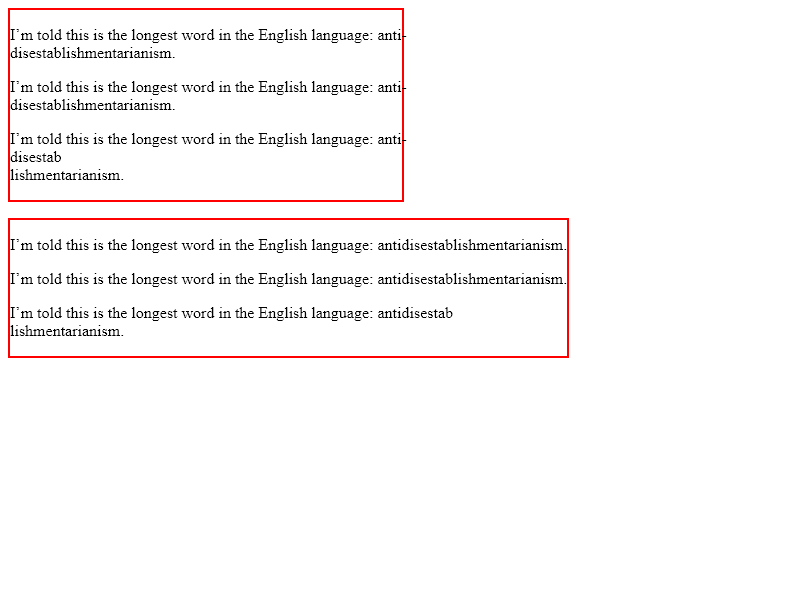
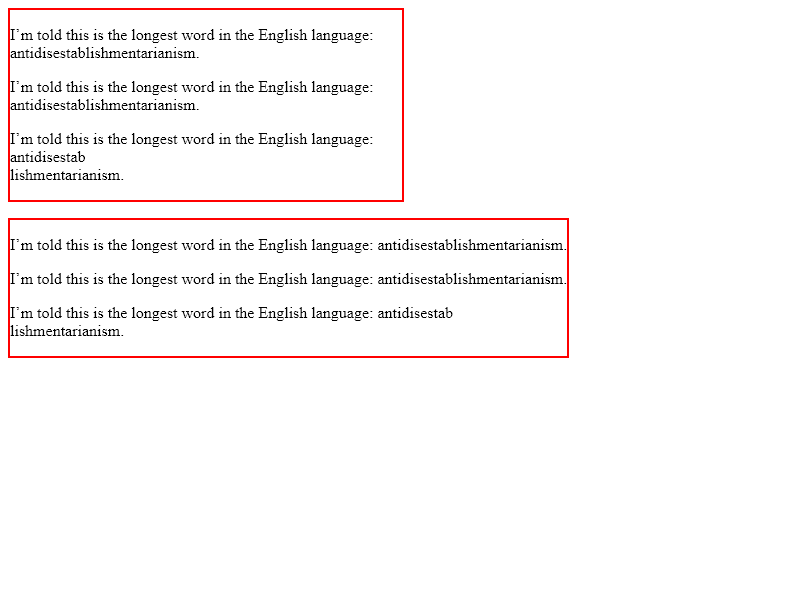
[LayoutNG] Fix when adding a hyphen causes the line to overflow
When adding a hyphen causes the line to overflow, this patch
retries another break opportunity with the reeuced available
width instead of the line to overflow.

Bug: 982729
Commit-Queue: Koji Ishii <kojii@chromium.org>
Cr-Original-Commit-Position: refs/heads/master@{#677216}
Cr-Mirrored-From: https://chromium.googlesource.com/chromium/src
Cr-Mirrored-Commit: 626dd8ba2ba9d5d8e179b61d05a9d99e462a31ef

diff --git a/blink/web_tests/external/wpt/css/css-text/hyphens/hyphens-overflow-001.html b/blink/web_tests/external/wpt/css/css-text/hyphens/hyphens-overflow-001.html
@@ -1,0 +1,20 @@
+<!DOCTYPE html>
+<title>CSS Text Test: Test when soft-hyphen overflows</title>
+<link rel="match" href="reference/hyphens-overflow-001-ref.html">
+<link rel="help" href="https://drafts.csswg.org/css-text-3/#hyphens-property">
+<link rel="author" href="mailto:kojii@chromium.org">
+<style>
+div {
+  font-size: 10px;
+  font-family: Ahem;
+  width: 5.1ch;
+}
+</style>
+<body>
+  <div>12 4&shy;xx</div>
+  <div>12 45&shy;xx</div>
+  <div>12 456&shy;xx</div>
+  <div>1234&shy;xx</div>
+  <div>12345&shy;xx</div>
+  <div>123456&shy;xx</div>
+</body>

diff --git a/blink/web_tests/external/wpt/css/css-text/hyphens/reference/hyphens-overflow-001-ref.html b/blink/web_tests/external/wpt/css/css-text/hyphens/reference/hyphens-overflow-001-ref.html
@@ -1,0 +1,15 @@
+<!DOCTYPE html>
+<style>
+div {
+  font-size: 10px;
+  font-family: Ahem;
+}
+</style>
+<body>
+  <div>12 4-<br>xx</div>
+  <div>12<br>45xx</div>
+  <div>12<br>456xx</div>
+  <div>1234-<br>xx</div>
+  <div>12345-<br>xx</div>
+  <div>123456-<br>xx</div>
+</body>

diff --git a/blink/renderer/core/layout/ng/inline/ng_line_breaker.cc b/blink/renderer/core/layout/ng/inline/ng_line_breaker.cc
@@ -636,39 +636,58 @@ NGLineBreaker::BreakResult NGLineBreaker::BreakText(
   if (break_anywhere_if_overflow_ && !override_break_anywhere_)
     options |= ShapingLineBreaker::kNoResultIfOverflow;
 
-  ShapingLineBreaker::Result result;
-  scoped_refptr<const ShapeResultView> shape_result = breaker.ShapeLine(
-      item_result->start_offset, available_width.ClampNegativeToZero(), options,
-      &result);
+#if DCHECK_IS_ON()
+  unsigned try_count = 0;
+#endif
+  LayoutUnit inline_size;
+  while (true) {
+#if DCHECK_IS_ON()
+    ++try_count;
+    DCHECK_LE(try_count, 2u);
+#endif
+    ShapingLineBreaker::Result result;
+    scoped_refptr<const ShapeResultView> shape_result = breaker.ShapeLine(
+        item_result->start_offset, available_width.ClampNegativeToZero(),
+        options, &result);
 
-  // If this item overflows and 'break-word' is set, this line will be
-  // rewinded. Making this item long enough to overflow is enough.
-  if (!shape_result) {
-    DCHECK(options & ShapingLineBreaker::kNoResultIfOverflow);
-    item_result->inline_size = available_width + 1;
-    item_result->end_offset = item.EndOffset();
-    return kOverflow;
+    // If this item overflows and 'break-word' is set, this line will be
+    // rewinded. Making this item long enough to overflow is enough.
+    if (!shape_result) {
+      DCHECK(options & ShapingLineBreaker::kNoResultIfOverflow);
+      item_result->inline_size = available_width + 1;
+      item_result->end_offset = item.EndOffset();
+      return kOverflow;
+    }
+    DCHECK_EQ(shape_result->NumCharacters(),
+              result.break_offset - item_result->start_offset);
+    // It is critical to move the offset forward, or NGLineBreaker may keep
+    // adding NGInlineItemResult until all the memory is consumed.
+    CHECK_GT(result.break_offset, item_result->start_offset);
+
+    inline_size = shape_result->SnappedWidth().ClampNegativeToZero();
+    item_result->inline_size = inline_size;
+    if (UNLIKELY(result.is_hyphenated)) {
+      const WritingMode writing_mode = constraint_space_.GetWritingMode();
+      scoped_refptr<const NGPhysicalTextFragment> hyphen_fragment =
+          CreateHyphenFragment(node_, writing_mode, item);
+      LayoutUnit space_for_hyphen = available_width - inline_size;
+      LayoutUnit hyphen_inline_size = IsHorizontalWritingMode(writing_mode)
+                                          ? hyphen_fragment->Size().width
+                                          : hyphen_fragment->Size().height;
+      // If the hyphen overflows, retry with the reduced available width.
+      if (space_for_hyphen >= 0 && hyphen_inline_size > space_for_hyphen) {
+        available_width -= hyphen_inline_size;
+        continue;
+      }
+      inline_size += SetLineEndFragment(std::move(hyphen_fragment), line_info);
+      item_result->text_end_effect = NGTextEndEffect::kHyphen;
+    }
+    item_result->inline_size =
+        shape_result->SnappedWidth().ClampNegativeToZero();
+    item_result->end_offset = result.break_offset;
+    item_result->shape_result = std::move(shape_result);
+    break;
   }
-  DCHECK_EQ(shape_result->NumCharacters(),
-            result.break_offset - item_result->start_offset);
-  // It is critical to move the offset forward, or NGLineBreaker may keep adding
-  // NGInlineItemResult until all the memory is consumed.
-  CHECK_GT(result.break_offset, item_result->start_offset);
-
-  LayoutUnit inline_size = shape_result->SnappedWidth().ClampNegativeToZero();
-  item_result->inline_size = inline_size;
-  if (result.is_hyphenated) {
-    inline_size += SetLineEndFragment(
-        CreateHyphenFragment(node_, constraint_space_.GetWritingMode(), item),
-        line_info);
-
-    // TODO(kojii): Implement when adding a hyphen caused overflow.
-    // crbug.com/714962: Should be removed when switched to NGPaint.
-    item_result->text_end_effect = NGTextEndEffect::kHyphen;
-  }
-  item_result->inline_size = shape_result->SnappedWidth().ClampNegativeToZero();
-  item_result->end_offset = result.break_offset;
-  item_result->shape_result = std::move(shape_result);
 
   // * If width <= available_width:
   //   * If offset < item.EndOffset(): the break opportunity to fit is found.
